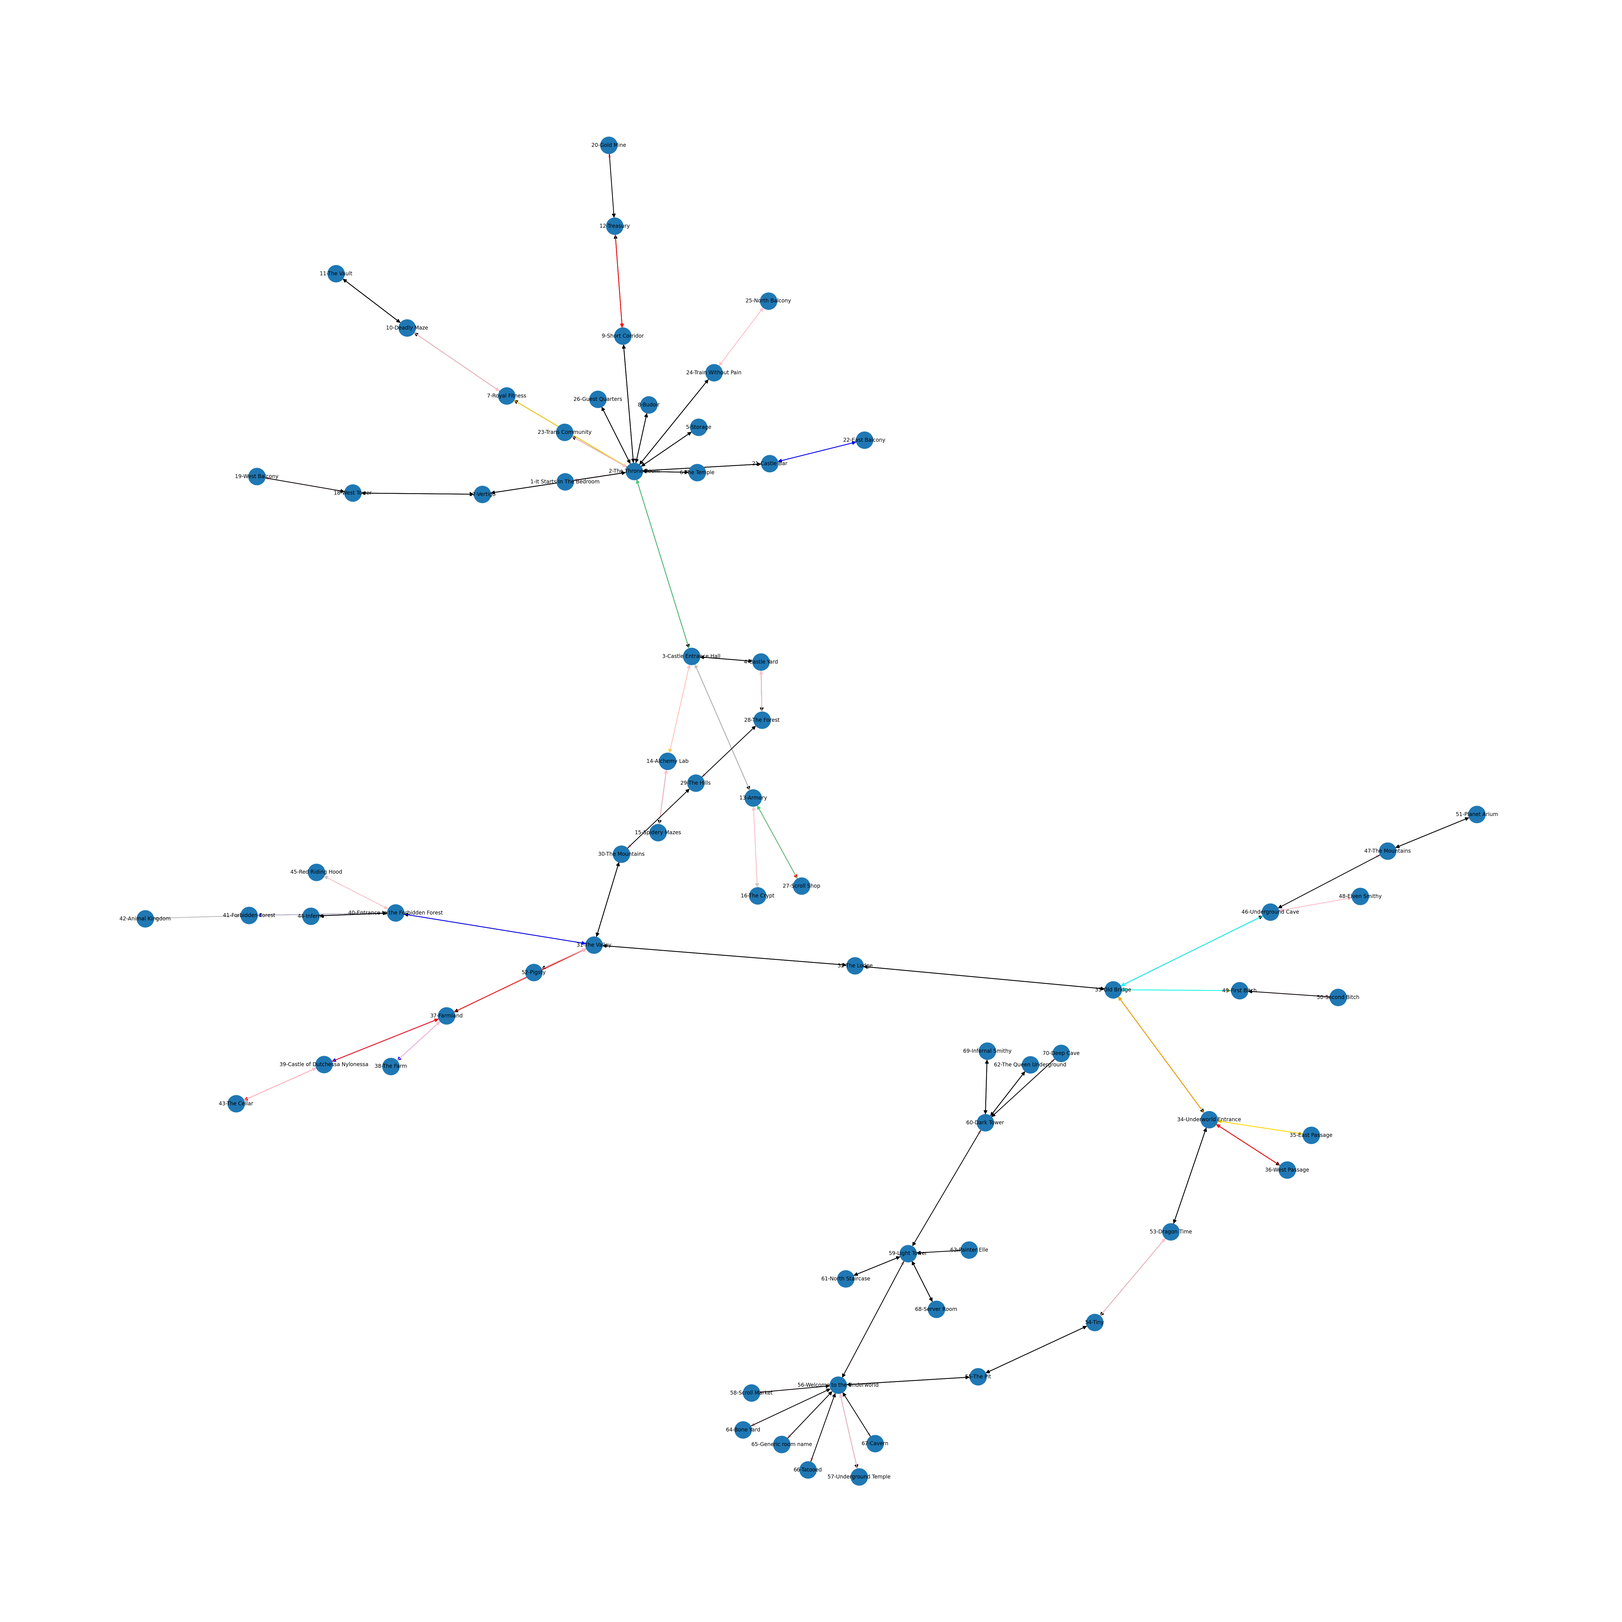
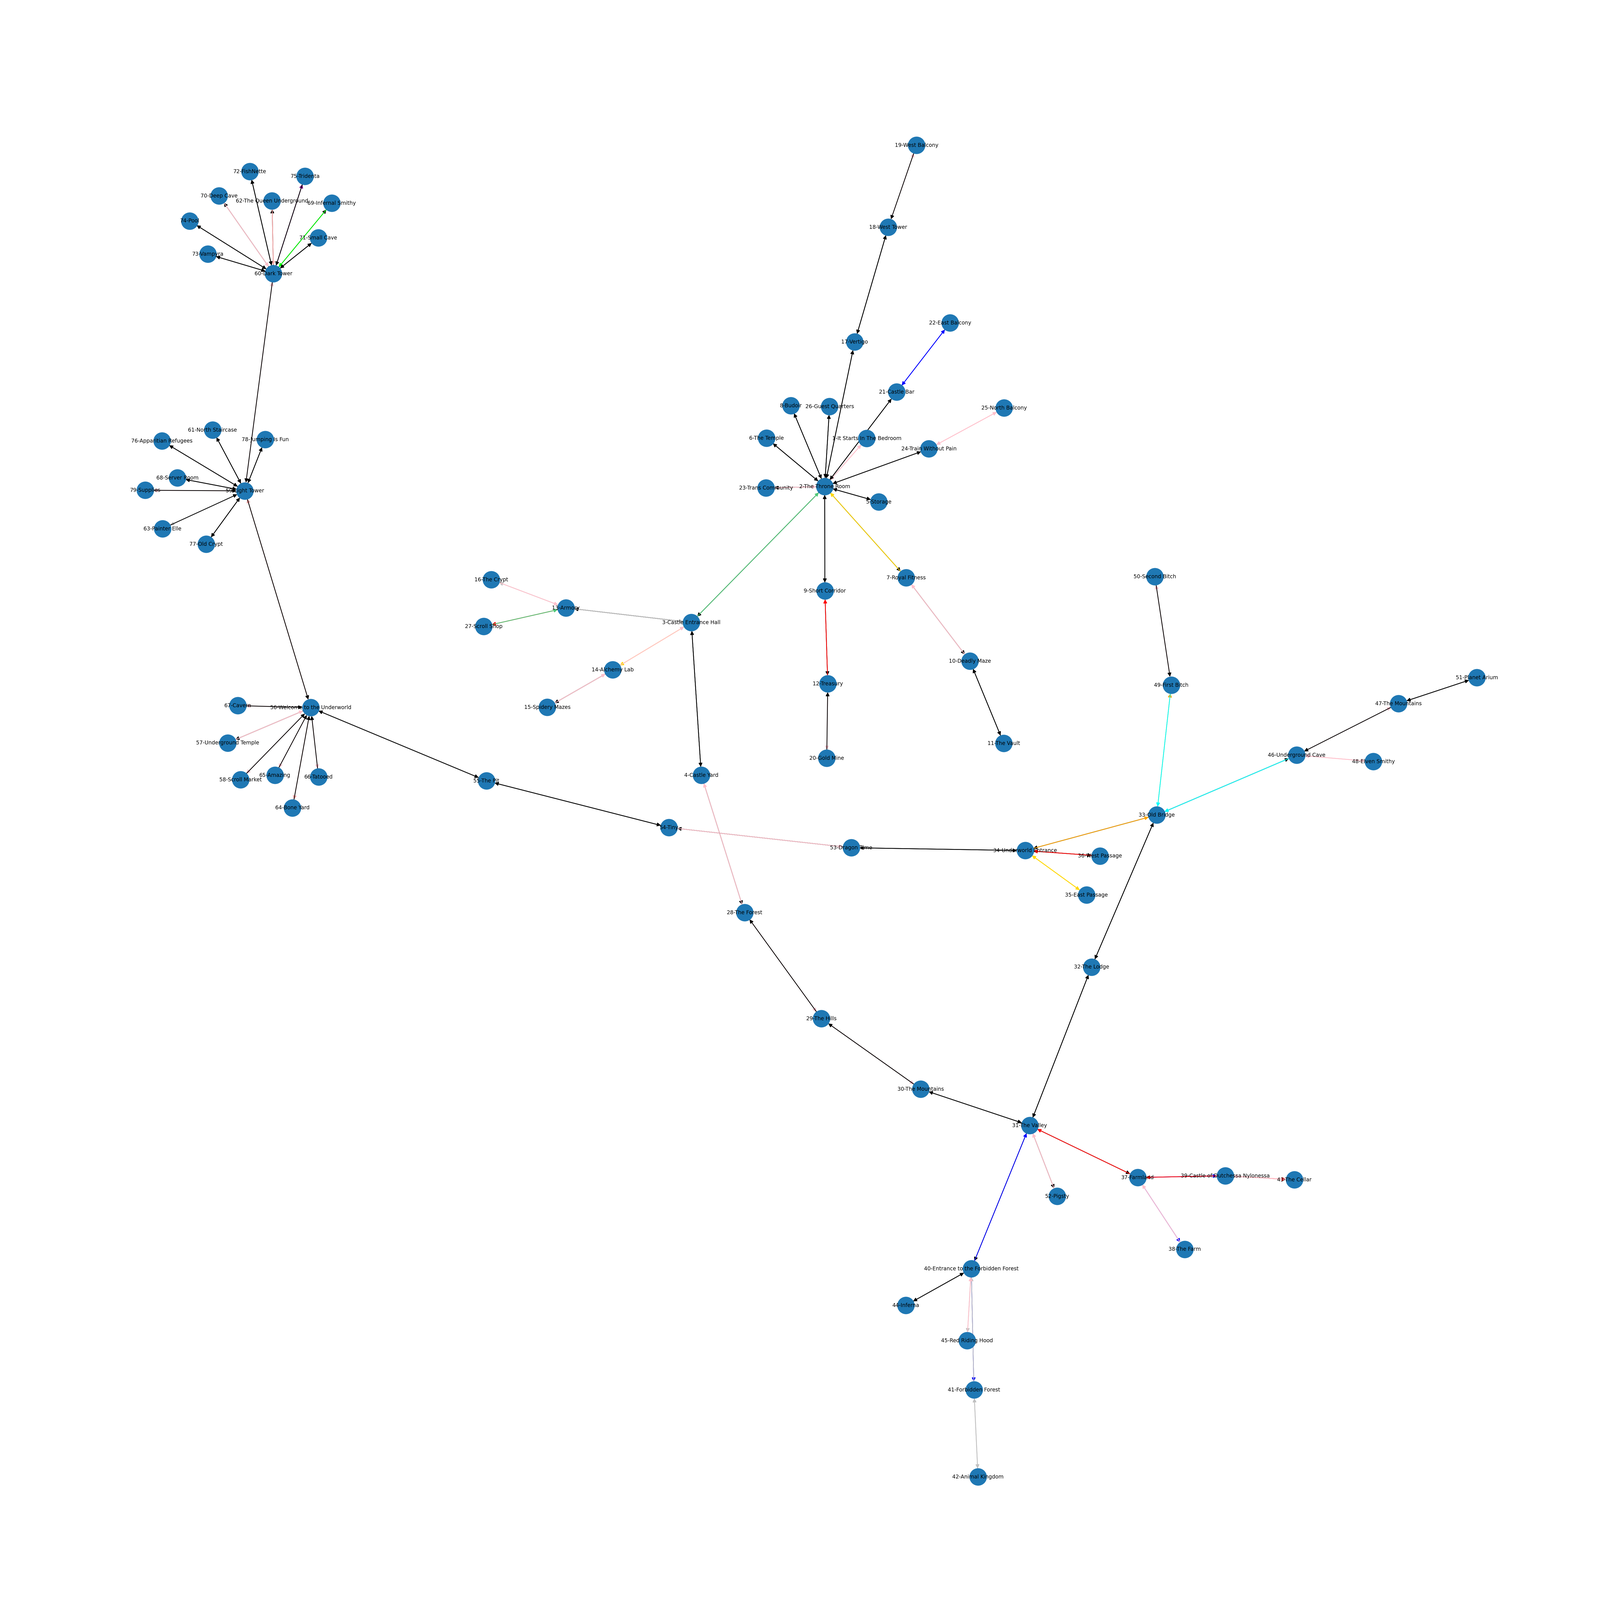
0.26.0

diff --git a/Assets/Definitions/HauntingTheHauntessa/MAP_HTH.js b/Assets/Definitions/HauntingTheHauntessa/MAP_HTH.js
@@ -1492,14 +1492,15 @@ const MAP = {
         killCountdown: -1,
         killsRequiredToStopSpawning: 99,
         spawnDelay: -1,
-        data: '{"width":"17","height":"17","depth":5,"map":"BB2AA2BB3AA4BAA10BAA4ÁAA14ÁÁ2AA12BB2ABAA2BAA3BAA4BAÁAA3BB2AA3BAA2ŁÁAA7ɁAA6BABAA2ÁAA2BAA2ÁBAÁAA7сAA2ŁࡁAA12ÁBAÁAA4ÁBABB4AA4BB4AA5ÁAA2BB2AÁAA2ÁÁ3AA5BB3AA2BB2AA2ÁBAA3BAA7BB4ÁAA6BB5ABB8ABB3ABABB4AA2BB17ABB3ABB14AA3BB16ABB2AA3BB3ABB2AA2BB4AA2BB4ABB7ABB4ABABB7AA2ÁAA2BB2AA4BB9ABB2ABABB4ABB21AÁBB56ABB64ABB16ABB117$ÁÁ2BB160ÁBB2ÁBÁBB5ÁBB2ŁɁсࡁBB4ÁÁ5BÁÁ2BB8ÁBÁBB3ࡁBB13ÁÁ2ABÁBÁBB2ÁBB2ÁBB6ÁÁ9BB2ABŁBɁBсBB2ÁBB11ÁBB40ࡁBB25ÁBB21ÁBÁBB26AÁÁ12AÁÁ8BÁÁ3BÁÁ30AÁAÁÁ15BÁÁ25BÁÁ4BB3ÁABABÁÁ4AÁÁ2ABÁÁ2BB2ÁÁ6BAA3BAÁÁ11BÁÁ2ŁÁÁ8BÁÁ15BÁÁ6ɁÁÁ5BÁÁ12BÁÁ19BÁÁ2BÁÁ80AA4ÁBB6ÁÁ19BB10сࡁÁÁ10AÁÁ2AÁÁ15ABAÁBB2AÁBB3AÁBɁBAÁсB"}',
+        data: '{"width":"17","height":"17","depth":5,"map":"BB3AA4BB2AA4BAA10BAA4ÁAA14ÁÁ2AA12BB2ABAA2BAA3BAA4BAA2ÁAA2BB2AA3BAA2ŁÁAA8ɁAA5BABAA2ÁAA2BAA2ÁBAÁAA7сAA3ŁÁࡁAA11ÁBAÁAA3BB3AÁBABB4AA4BB4ABAA4ÁAA4ÁAÁAA2ÁAA4BB4AA2BB2AA2ÁBAA3BAA10BÁAA6BB5ABB8ABB3ABABB7AA2BB14ABB3ABB17AA3BB12AA2BB2AA3BB3ABB2AA2BB2ABB10ABB3ABB4ABAA3BB9AÁBAA4BB3AA2BB8ABABB4ABB21AÁBB56ABB58ABB20ABB117$ÁBÁBB160ÁBB2ÁBÁBÁBB4ÁBÁBB2ŁɁсࡁBB4ÁÁ3BB3ÁÁ2BB8ÁBÁBB6ࡁBB10ÁÁ2ABÁBÁBB2ÁBB2ÁBB6ÁÁ9BB2ABŁBɁBсBB2ÁBB11ÁBB40ࡁBB25ÁBB21ÁBÁBB26AÁÁ14AÁÁ6BÁÁ5BÁÁ28AÁAÁÁ15BÁÁ25BÁÁ4BB3ÁAÁBABÁÁ3AÁÁ2ABÁÁ3BÁBÁÁ4BAA3BAÁÁ11BÁÁ2ŁÁÁ10BÁÁ13BÁÁ6ɁÁÁ5BÁÁ12BÁÁ19BÁÁ2BÁÁ40AÁÁ6BÁÁ12AÁAÁÁ2BB2ÁÁ11AÁBB3ÁÁ19BB10сࡁÁÁ10AÁÁ2AÁÁ15ABAÁBB2AÁBB3AÁBɁBAÁсB"}',
         wall: "JuggernautDarkwalls_0904",
         floor: "BloodMarbleFloorWall_SDXL_021",
         ceil: "OrnateWall2",
-        start: '[314,7]',
+        start: '[915,1]',
+        decals: '[[887,7,"BookShelf16","picture"],[888,7,"BookShelf17","picture"],[889,7,"BookShelf18","picture"],[885,7,"BookShelf19","picture"],[901,5,"BookShelf20","picture"],[919,5,"BookShelf21","picture"],[936,5,"BookShelf22","picture"],[919,1,"BookShelf23","picture"]]',
         lights: '[[620,7,"DuaLLantern_021","standardSoft"],[1113,1,"Candle70","standard"],[494,5,"DuaLLantern_012","standardFaint"],[508,3,"SkullLantern52","standardFaint"]]',
-        gates: '[[297,7,"56.1","55.2","Up"],[441,3,"56.2","57.1","Closed"],[425,5,"56.3","58.1","Closed"],[858,1,"56.4","59.1","Pink"],[290,7,"56.5","64.1","Closed"],[304,7,"56.6","65.1","Silver"],[220,3,"56.7","66.1","Closed"],[204,5,"56.8","67.1","Closed"]]',
-        entities: '[[416,1,"BlondeSkulla"]]',
+        gates: '[[297,7,"56.1","55.2","Up"],[441,3,"56.2","57.1","Closed"],[425,5,"56.3","58.1","Closed"],[858,1,"56.4","59.1","Pink"],[290,7,"56.5","64.1","Closed"],[304,7,"56.6","65.1","Silver"],[220,3,"56.7","66.1","Closed"],[204,5,"56.8","67.1","Closed"],[1436,1,"56.9","80.1","Up"]]',
+        entities: '[[416,1,"BlondeSkulla"],[869,7,"Libranelle"],[881,7,"BlackDommeGuard"]]',
     }
     ,
     57: {
@@ -1513,12 +1514,12 @@ const MAP = {
         wall: "JuggernautDarkwalls_0915",
         floor: "Relief08",
         ceil: "IvyWall3",
-        start: '[261,5]',
+        start: '[299,7]',
         decals: '[[123,4,"RustyFloorGrille_07","crest"],[177,4,"FloorGrille113","crest"],[237,4,"RustyFloorGrille_08","crest"],[183,4,"FloorGrille107","crest"],[80,4,"FloorGrille106","crest"],[90,4,"RustyFloorGrille_02","crest"],[270,4,"FloorGrille102","crest"],[280,4,"FloorGrille106","crest"],[180,3,"CrawlMaster131","picture"],[137,3,"ZX_Games_3051","picture"],[213,3,"FemDommes_18735","picture"],[273,3,"FemDommes_15138","picture"],[277,3,"CCC_039","picture"],[223,3,"FluxDommes3062","picture"],[147,3,"FemDommes_8440","picture"],[87,3,"FemDommes_15723","picture"],[83,3,"FemDommes_14103","picture"],[83,5,"FemDommes_4166","picture"],[87,5,"FemaleWarrior107","picture"],[147,5,"FemDommes_13069","picture"],[137,5,"FluxDommes2244","picture"],[180,5,"CrawlMaster2","picture"],[213,5,"Various6035","picture"],[273,5,"ZX_Games_3043","picture"],[277,5,"GameScreen1007","picture"],[223,5,"FemDommes_12107","picture"],[83,1,"Ultima11","picture"],[87,1,"RetroGames_2055","picture"],[147,1,"FemDommes_8301","picture"],[137,1,"C64Games_3197","picture"],[180,1,"CastleLady109","picture"],[213,1,"FemDommes_19031","picture"],[273,1,"RMC50","picture"],[277,1,"FemDommes_17444","picture"],[223,1,"FemDommes_15722","picture"],[83,7,"GameDommes_035","picture"],[87,7,"AI_pic219","picture"],[137,7,"Domme322","picture"],[180,7,"FemDommes_6244","picture"],[147,7,"GemDommes_069","picture"],[223,7,"BC90","picture"],[277,7,"FemDommes_14157","picture"],[273,7,"FemDommes_15407","picture"],[213,7,"FluxDommes2045","picture"]]',
         lights: '[[541,1,"Candelabra06","standard2"],[541,7,"Lights102","standard2"],[541,3,"SkullLantern58","standard2"],[541,5,"SkullLantern56","standard2"]]',
         gates: '[[171,5,"57.1","56.2","Closed"]]',
         shrines: '[[189,3,"DeathWarder"],[9,7,"ThornMana"],[351,1,"ThornPriestess"],[95,5,"MaskedDefense"],[247,5,"LatexHeart"]]',
-        entities: '[[265,3,"MessyHair"]]',
+        entities: '[[265,3,"MessyHair"],[356,1,"RedDommeGuard"]]',
         oracles: '[[113,3,"StaircaseTransa"]]',
     }
     ,
@@ -1919,5 +1920,23 @@ const MAP = {
         lights: '[[463,5,"SkullLantern58","standardSoft"],[395,5,"SkullLantern57","standardSoft"],[727,3,"SkullLantern51","standardDim"]]',
         gates: '[[136,5,"79.1","59.13","Closed"]]',
         entities: '[[152,3,"YellowasWitness"]]',
+    }
+    ,
+    80: {
+        name: "Ice Tower",
+        sg: 0,
+        maxSpawned: -1,
+        killCountdown: -1,
+        killsRequiredToStopSpawning: 99,
+        spawnDelay: -1,
+        data: '{"width":"15","height":"15","depth":4,"map":"BB5ABABAA2BABAA23BAA2BAA26BABB3AA11BAA10BB3AA3BB2AA5BB2AA12BB2ABB5AA2BB3ABB2AA2BB2AA2BB14ABB2ABB3ABB3ABB2ABB2ABB2ABB7ABABB2ABB3AA4BB2ABB7ABB16$BB64ÁÁ2BB33ÁBB96ABB156ÁBÁBB2ÁBB2ÁBB10ÁÁ2BB3ÁBB2ÁÁ2BÁBB17ÁÁ2BB3ÁBB6ÁÁ5BB85ÁÁ2BB2ÁÁ3BB5ÁÁ5BÁBB13ÁÁ10BÁBÁÁ14BB2ÁÁ9BÁÁ10BB2ÁÁ2BÁÁ3BB2ÁBÁÁ3BÁÁ4BÁÁ6BB5ÁÁ13BB2ÁÁ2BB2ÁÁ18BÁBB3ÁÁ11BB6"}',
+        wall: "IceWall21",
+        floor: "IceFloor22",
+        ceil: "IceFloor24",
+        start: '[16,7]',
+        decals: '[[76,1,"FemDommes_18031","picture"],[80,1,"RetroGames_2327","picture"],[84,1,"Domme349","picture"],[112,1,"UnusedEntities2050","picture"],[140,1,"FluxDommes2088","picture"],[144,1,"DefenderOfTheCrown110","picture"],[212,1,"FemDommes_18612","picture"],[199,1,"FemDommes_16722","picture"],[201,1,"ShortBlackSkirt_002","picture"],[204,1,"FemDommes_15102","picture"],[220,1,"FemDommes_10056","picture"],[191,1,"FemDommes_18366","picture"],[87,1,"GameScreens008","picture"],[147,1,"FemDommes_6016","picture"]]',
+        lights: '[[337,5,"SkullLantern50","standardYellowSoft"],[530,1,"Lights110","standardYellowSoft"],[590,7,"Candle53","standardYellowSoft"],[105,5,"Fireplace207","fireplaceDim"]]',
+        gates: '[[1,7,"80.1","56.9","Down"]]',
+        entities: '[[119,3,"IceWhiskyPrincess"]]',
     }
 };

diff --git a/Assets/Definitions/HauntingTheHauntessa/Monsters_HTH.js b/Assets/Definitions/HauntingTheHauntessa/Monsters_HTH.js
@@ -3053,6 +3053,17 @@ const INTERACTION_OBJECT = {
         material: MATERIAL.greenFluence,
         text: "Yikes. Don't drink this. It's deadly."
     },
+    IceCube: {
+        name: "IceCube",
+        category: "interaction_item",
+        element: "CUBE_CENTERED",
+        scale: 1.99 / 2 ** 5,
+        glueToFloor: true,
+        texture: "IceTexture",
+        inventorySprite: "IceCube",
+        material: MATERIAL.standardShine,
+        text: "Ice cube. Cold?"
+    },
 
     //metals
     GoldSphere: {
@@ -4059,6 +4070,8 @@ const INTERACTION_ITEM = {
         inventorySprite: "RavenBook",
         text: "It seems like an interesting book, full of ancient knowledge."
     },
+
+    //other
     GreenPanties: {
         name: "GreenPanties",
         category: "interaction_item",
@@ -4193,19 +4206,71 @@ const INTERACTION_ITEM = {
 };
 
 const INTERACTION_ENTITY = {
-    MessyHair: {
-    name: "MessyHair",
-    sprite: "MessyHair",
+    RedDommeGuard: {
+    name: "RedDommeGuard",
+    sprite: "RedDommeGuard",
     category: 'crest',
-    voice: "FemaleLow2",
-    wants: ["Comb", "HairBrush", "PinkRibbon"],
-    gives: "Banknote10",
+    voice: "Female3",
+    wants: ["Sword", "Shield"],
+    gives: "PinkPanties",
     text: {
-        intro: "You're my hairdresser now, so don't you slip. Fetch the tools and start the trip.",
-        progress: "Better, but not quite there. Keep working those hands through my hair.",
-        conclusion: "Styled to perfection, ribbons in place. Here's your pay, now give me some space."
+        intro: "Standing guard without sword or shield? I need some steel before I yield.",
+        progress: "Half armed now, but still not right. Bring the rest to guard the night.",
+        conclusion: "With sword in hand and shield held tight, take these pink panties, my tribute tonight."
     }
 },
+    BlackDommeGuard: {
+    name: "BlackDommeGuard",
+    sprite: "BlackDommeGuard",
+    category: 'crest',
+    voice: "FemaleLow4",
+    wants: ["Mace", "Shield"],
+    gives: "YellowLatexThongs",
+    text: {
+        intro: "A guard without weapons? What a disgrace. Bring me protection, a shield and a mace.",
+        progress: "One piece helps, but I'm still not set. Bring the rest, I'm not safe yet.",
+        conclusion: "Armed at last, I stand so strong. Take these hot yellow thongs, where they belong."
+    }
+},
+    Libranelle: {
+        name: "Libranelle",
+        sprite: "Libranelle",
+        category: 'crest',
+        voice: "FemaleHigh6",
+        wants: ["RavenBook", "TreeOfLifeBook", "PrincessBook", "OwlBook", "AnkhBook"],
+        gives: "GreenPanties",
+        text: {
+            intro: "Shhh... the library's a holy ground. Return my books that can't be found.",
+            progress: "One tome is back, but shelves still lack. Keep searching, I want the stack.",
+            conclusion: "All my books are safe, you are done . Take my green panties, I never wore one."
+        }
+    },
+    IceWhiskyPrincess: {
+        name: "IceWhiskyPrincess",
+        sprite: "IceWhiskyPrincess",
+        category: 'crest',
+        voice: "FemaleHigh2",
+        wants: ["IceCube", "IceCube", "IceCube"],
+        gives: "YellowUmbrella",
+        text: {
+            intro: "My whisky burns, it's far too hot. Fetch me some ice to cool the shot.",
+            progress: "A cube or two brings slight relief, but I need more to chill my grief.",
+            conclusion: "Finally chilled, my drink's just right. Take this umbrella, I won't need it tonight ... It's too cold to rain."
+        }
+    },
+    MessyHair: {
+        name: "MessyHair",
+        sprite: "MessyHair",
+        category: 'crest',
+        voice: "FemaleLow2",
+        wants: ["Comb", "HairBrush", "PinkRibbon"],
+        gives: "Banknote10",
+        text: {
+            intro: "You're my hairdresser now, so don't you slip. Fetch the tools and start the trip.",
+            progress: "Better, but not quite there. Keep working those hands through my hair.",
+            conclusion: "Styled to perfection, ribbons in place. Here's your pay, now give me some space."
+        }
+    },
     ScubaDiveress: {
         name: "ScubaDiveress",
         sprite: "ScubaDiveress",

diff --git a/Games/HauntingTheHauntessa/HauntingTheHauntessa.js b/Games/HauntingTheHauntessa/HauntingTheHauntessa.js
@@ -90,6 +90,11 @@ const DEBUG = {
             DONE Brushelle wants "RedLeatherBoots", "PurpleLatexBra", "PinkPanties" gives PaintBrush
             DONE MessyHair wants "Comb", "HairBrush", "PinkRibbon" gives  Banknote10
             DONE ScubaDiveress wants "RedFin", "RedFin" gives "SunGlasses"
+            DONE IcePrincess wats "IceCube", "IceCube", "IceCube" gives "YellowUmbrella", 
+            DONE Libranelle wants "RavenBook", "TreeOfLifeBook", "PrincessBook", "OwlBook", "AnkhBook" gives "GreenPanties"
+            DONE BlackDommeGuard (56) wants "Mace", "Shield" gives "YellowLatexThongs"
+            DONE RedDommeGuard () wants "Sword", "Shield" give PinkPanties
+        --GreenDommeGuard () wants "Revolver", "Ammo" gives  PurpleLatexBra
 
         Items:
         GoldCoin
@@ -119,14 +124,14 @@ const DEBUG = {
         "GoldBar", 
         "GoldBar", 
         "GoldBar"
-        "GreenPanties", 
+            DONE "GreenPanties", --> Libranelle (56)
         "GreenDress", 
             DONE "GreenBoots"--> Goldini(59)
             DONE "WhitePanties", ---> ApparitiaPanties (76)
             DONE "WhiteDress", --> (76)
             DONE "WhiteBoots", ---> ApparitiaHide (76)
             DONE "YellowDress", ---> YellowaWitness(79)
-        "YellowLatexThongs",
+            DONE "YellowLatexThongs", --> BlackDommeGuard (56)
         "YellowBoots"
             DONE "SkeletonCat", ---> Ghosthessa(77)
             DONE "SkeletonBird", ---> PoisonDrinker(78)
@@ -136,6 +141,10 @@ const DEBUG = {
             DONE "Fish", --> Fisherine(74)
             DONE "TropicalFish" --> (74)
         "BattleAxe", 
+        "Mace"
+        "Sword"
+        "Shield"
+        "Shield"
         "Shield"
             DONE Trident --> Tridenta (75)
             DONE "SunGlasses", --> ScubaDiveress (74)
@@ -149,7 +158,7 @@ const DEBUG = {
         Poison, 
         Poison
         "Poison"
-        "YellowUmbrella", 
+            DONE "YellowUmbrella", ---> IcePrincess (80)
         "YellowWellies"
         "Computer", 
         "MicroProcessor"
@@ -157,12 +166,22 @@ const DEBUG = {
         "Joystick",
         "RedLeatherBoots", 
         "PurpleLatexBra", 
-        "PinkPanties"
+        DONE "PinkPanties" ---> RedDommeGuard(57)
         "RedFin", 
         "RedFin"
         "Comb", 
         "HairBrush", 
         "PinkRibbon"
+        "IceCube", 
+        "IceCube", 
+        "IceCube"
+        "RavenBook", 
+        "TreeOfLifeBook", 
+        "PrincessBook", 
+        "OwlBook", 
+        "AnkhBook"
+        "Revolver", 
+        "Ammo"
 
 
         Shrines:
@@ -196,7 +215,7 @@ const DEBUG = {
 
         console.info("DEBUG::Starting from checkpoint, this may clash with LOAD");
 
-        GAME.level = 57; //63
+        GAME.level = 57; //
         GAME.gold = 50035;
         GAME.lives = 3;
 
@@ -251,7 +270,9 @@ const DEBUG = {
 
         let invItems = [
             "GoldCoin",
-   
+            "Revolver",
+            "Ammo",
+
         ];
 
         for (let itm of invItems) {
@@ -375,7 +396,7 @@ const INI = {
 };
 
 const PRG = {
-    VERSION: "0.25.25",
+    VERSION: "0.26.00",
     NAME: "Haunting The Hauntessa",
     YEAR: "2025",
     SG: "HTH",

diff --git a/Games/MazEditor/MazEditor.html b/Games/MazEditor/MazEditor.html
@@ -656,12 +656,12 @@ data: '{"width":"19","height":"19","depth":3,"map":"BB3AA2BABABB6AA50BB2AA10BAA3
 wall: "JuggernautDarkwalls_0915",
 floor: "Relief08",
 ceil: "IvyWall3",
-start: '[261,5]',
+start: '[299,7]',
 decals: '[[123,4,"RustyFloorGrille_07","crest"],[177,4,"FloorGrille113","crest"],[237,4,"RustyFloorGrille_08","crest"],[183,4,"FloorGrille107","crest"],[80,4,"FloorGrille106","crest"],[90,4,"RustyFloorGrille_02","crest"],[270,4,"FloorGrille102","crest"],[280,4,"FloorGrille106","crest"],[180,3,"CrawlMaster131","picture"],[137,3,"ZX_Games_3051","picture"],[213,3,"FemDommes_18735","picture"],[273,3,"FemDommes_15138","picture"],[277,3,"CCC_039","picture"],[223,3,"FluxDommes3062","picture"],[147,3,"FemDommes_8440","picture"],[87,3,"FemDommes_15723","picture"],[83,3,"FemDommes_14103","picture"],[83,5,"FemDommes_4166","picture"],[87,5,"FemaleWarrior107","picture"],[147,5,"FemDommes_13069","picture"],[137,5,"FluxDommes2244","picture"],[180,5,"CrawlMaster2","picture"],[213,5,"Various6035","picture"],[273,5,"ZX_Games_3043","picture"],[277,5,"GameScreen1007","picture"],[223,5,"FemDommes_12107","picture"],[83,1,"Ultima11","picture"],[87,1,"RetroGames_2055","picture"],[147,1,"FemDommes_8301","picture"],[137,1,"C64Games_3197","picture"],[180,1,"CastleLady109","picture"],[213,1,"FemDommes_19031","picture"],[273,1,"RMC50","picture"],[277,1,"FemDommes_17444","picture"],[223,1,"FemDommes_15722","picture"],[83,7,"GameDommes_035","picture"],[87,7,"AI_pic219","picture"],[137,7,"Domme322","picture"],[180,7,"FemDommes_6244","picture"],[147,7,"GemDommes_069","picture"],[223,7,"BC90","picture"],[277,7,"FemDommes_14157","picture"],[273,7,"FemDommes_15407","picture"],[213,7,"FluxDommes2045","picture"]]',
 lights: '[[541,1,"Candelabra06","standard2"],[541,7,"Lights102","standard2"],[541,3,"SkullLantern58","standard2"],[541,5,"SkullLantern56","standard2"]]',
 gates: '[[171,5,"57.1","56.2","Closed"]]',
 shrines: '[[189,3,"DeathWarder"],[9,7,"ThornMana"],[351,1,"ThornPriestess"],[95,5,"MaskedDefense"],[247,5,"LatexHeart"]]',
-entities: '[[265,3,"MessyHair"]]',
+entities: '[[265,3,"MessyHair"],[356,1,"RedDommeGuard"]]',
 oracles: '[[113,3,"StaircaseTransa"]]',
 }
                         </textarea>

diff --git a/Assets/Definitions/HauntingTheHauntessa/assets_HTH.js b/Assets/Definitions/HauntingTheHauntessa/assets_HTH.js
@@ -1247,6 +1247,10 @@ LoadSprites = [
     { srcName: "EntityPictures/Brushelle.jpg", name: "Brushelle" },
     { srcName: "EntityPictures/ScubaDiveress.jpg", name: "ScubaDiveress" },
     { srcName: "EntityPictures/MessyHair.jpg", name: "MessyHair" },
+    { srcName: "EntityPictures/IceWhiskyPrincess.jpg", name: "IceWhiskyPrincess" },
+    { srcName: "EntityPictures/Libranelle1.jpg", name: "Libranelle" },
+    { srcName: "EntityPictures/BlackDommeGuard.jpg", name: "BlackDommeGuard" },
+    { srcName: "EntityPictures/RedDommeGuard.jpg", name: "RedDommeGuard" },
 
     //action movables
     { srcName: "ActionMovables/GreenSpider.png", name: "BabyGreenSpider" },
@@ -1558,6 +1562,7 @@ LoadSprites = [
     { srcName: "Items/Comb.png", name: "Comb" },
     { srcName: "Items/HairBrush.png", name: "HairBrush" },
     { srcName: "Items/PinkRibbon.png", name: "PinkRibbon" },
+     { srcName: "Items/IceCube2.png", name: "IceCube" },
 
     //books
     { srcName: "Items/YoniBook.png", name: "YoniBook" },
